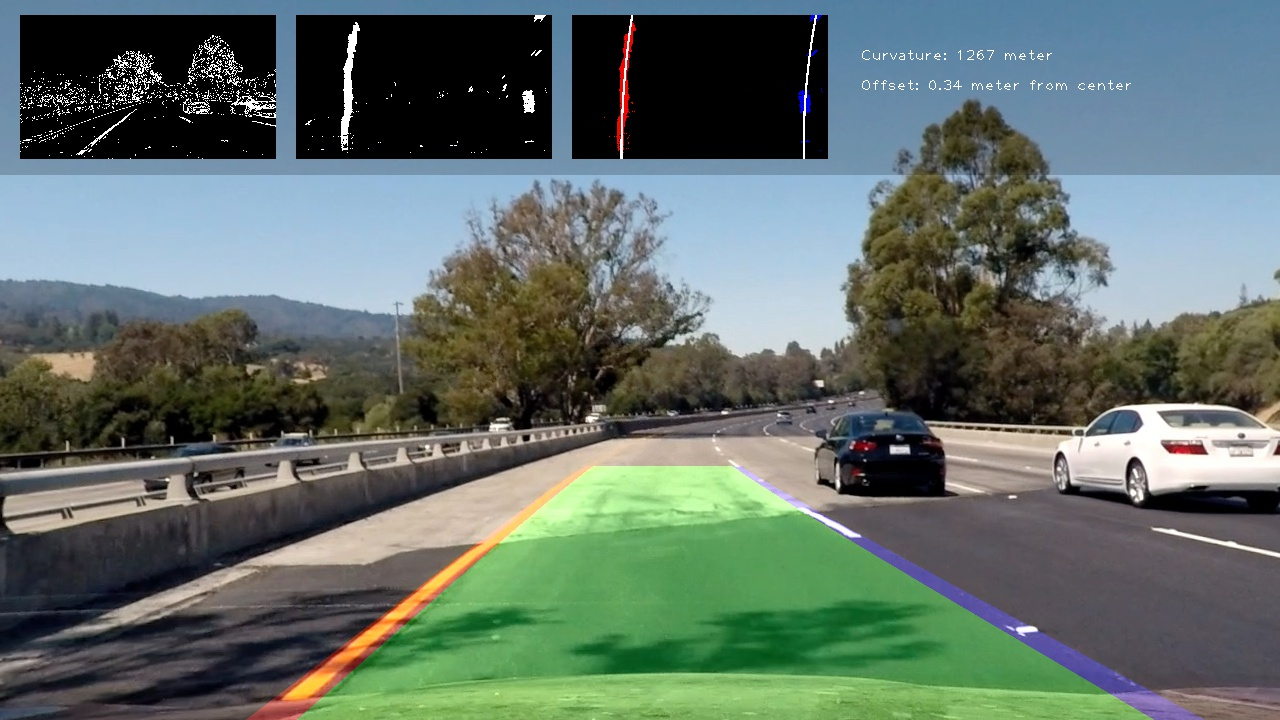
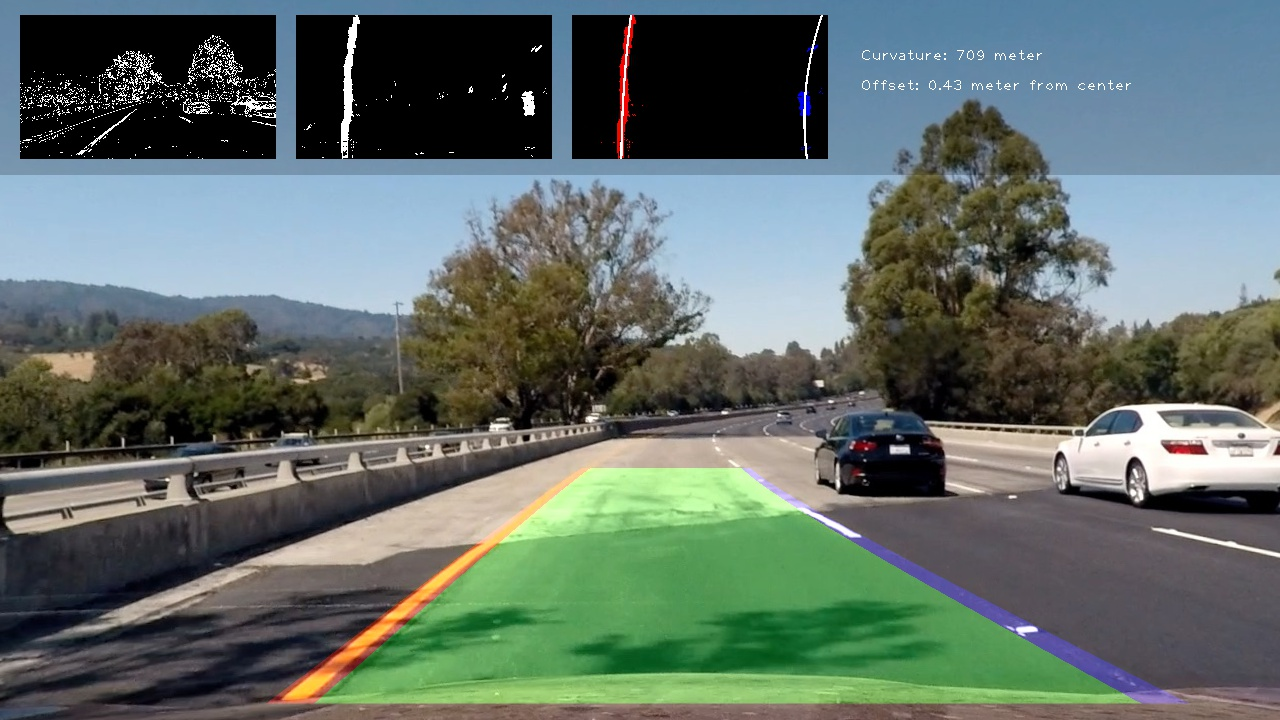
Fix curvature and offset calculations

diff --git a/project02 advanced lane lines/lane.py b/project02 advanced lane lines/lane.py
@@ -172,24 +172,24 @@ def fit_polynomial(binary_warped, debug=False):
 
     # Plots the left and right polynomials on the lane lines
     if debug:
-        plt.plot(left_fitx, ploty, color='red')
-        plt.plot(right_fitx, ploty, color='blue')
+        # plt.plot(left_fitx, ploty, color='red')
+        # plt.plot(right_fitx, ploty, color='blue')
         plt.imshow(out_img, cmap='gray')
         plt.show()
 
     return left_fit, right_fit, left_fitx, right_fitx, ploty, out_img
 
 
-# def put_points(image, pts, color=[0, 255, 0]):
-#     # pdb.set_trace()
-#     for (x, y) in pts:
-#         x = int(x)
-#         y = int(y)
-#         print(x, y, color)
-#         image[y, x, :] = color
-#
-#     pdb.set_trace()
-#     return image
+def put_points(image, pts, color=[0, 255, 0]):
+    # pdb.set_trace()
+    for (x, y) in pts:
+        x = int(x)
+        y = int(y)
+        print(x, y, color)
+        image[y, x, :] = color
+
+    pdb.set_trace()
+    return image
 
 
 def draw_lane(image, coeffs, color=(255, 0, 0), line_width=50):
@@ -259,12 +259,116 @@ def measure_curvature_real(leftx, rightx, ploty):
     return np.average([left_curverad, right_curverad])
 
 
+def measure_curvature_real2(image, birdeye_binary, Minv, leftx, rightx, ploty):
+    # warped from birdeye to the original image space
+    warped_left_points = np.zeros_like(birdeye_binary).astype(np.uint8)
+    warped_right_points = np.zeros_like(birdeye_binary).astype(np.uint8)
+
+    # plot the points in warped space
+    for i, x1 in enumerate(leftx):
+        x2 = rightx[i]
+        y = ploty[i]
+        warped_left_points[y, x1] = 1
+        warped_right_points[y, x2] = 1
+
+    left_points = cv2.warpPerspective(warped_left_points, Minv, (image.shape[1], image.shape[0]))
+    right_points = cv2.warpPerspective(warped_right_points, Minv, (image.shape[1], image.shape[0]))
+    # for
+
+    leftx = []
+    left_ploty = []
+    for i, row in enumerate(left_points):
+        for j, x in enumerate(row):
+            if x == 1:
+                leftx.append(j)
+                left_ploty.append(i)
+
+    rightx = []
+    right_ploty = []
+    for i, row in enumerate(right_points):
+        for j, x in enumerate(row):
+            if x == 1:
+                rightx.append(j)
+                right_ploty.append(i)
+
+    leftx = np.array(leftx)
+    left_ploty = np.array(left_ploty)
+    rightx = np.array(rightx)
+    right_ploty = np.array(right_ploty)
+
+
+    left_fit_cr = np.polyfit(left_ploty*ym_per_pix, leftx*xm_per_pix, 2)
+    right_fit_cr = np.polyfit(right_ploty*ym_per_pix, rightx*xm_per_pix, 2)
+
+    y_eval = np.max(ploty)
+
+    # Calculation of R_curve (radius of curvature)
+    left_curverad = ((1 + (2*left_fit_cr[0]*y_eval*ym_per_pix + left_fit_cr[1])**2)**1.5) / np.absolute(2*left_fit_cr[0])
+    right_curverad = ((1 + (2*right_fit_cr[0]*y_eval*ym_per_pix + right_fit_cr[1])**2)**1.5) / np.absolute(2*right_fit_cr[0])
+
+    # print(left_curverad)
+    # print(right_curverad)
+    out = np.average([left_curverad, right_curverad])
+
+    return out
+
 
 def compute_offset(birdeye, left_fitx, right_fitx, ploty):
     image_center = birdeye.shape[1] / 2
 
     left_bottom = np.mean(left_fitx[ploty > 0.95 * max(ploty)])
     right_bottom = np.mean(right_fitx[ploty > 0.95 * max(ploty)])
+    lane_width = right_bottom - left_bottom
+    lane_center = (left_bottom + lane_width / 2)
+
+    offset_pix = lane_center - image_center
+    offset_meter = xm_per_pix * offset_pix
+
+    return offset_meter
+
+
+def compute_offset2(image, birdeye_binary, Minv, leftx, rightx, ploty):
+    image_center = image.shape[1] / 2
+
+    # warped from birdeye to the original image space
+    warped_left_points = np.zeros_like(birdeye_binary).astype(np.uint8)
+    warped_right_points = np.zeros_like(birdeye_binary).astype(np.uint8)
+
+    # plot the points in warped space
+    for i, x1 in enumerate(leftx):
+        x2 = rightx[i]
+        y = ploty[i]
+        warped_left_points[y, x1] = 1
+        warped_right_points[y, x2] = 1
+
+    left_points = cv2.warpPerspective(warped_left_points, Minv, (image.shape[1], image.shape[0]))
+    right_points = cv2.warpPerspective(warped_right_points, Minv, (image.shape[1], image.shape[0]))
+    # for
+
+    leftx = []
+    left_ploty = []
+    for i, row in enumerate(left_points):
+        for j, x in enumerate(row):
+            if x == 1:
+                leftx.append(j)
+                left_ploty.append(i)
+
+    rightx = []
+    right_ploty = []
+    for i, row in enumerate(right_points):
+        for j, x in enumerate(row):
+            if x == 1:
+                rightx.append(j)
+                right_ploty.append(i)
+
+    leftx = np.array(leftx)
+    left_ploty = np.array(left_ploty)
+    rightx = np.array(rightx)
+    right_ploty = np.array(right_ploty)
+
+
+    left_bottom = np.mean(leftx[left_ploty > 0.95 * max(left_ploty)])
+    right_bottom = np.mean(rightx[right_ploty > 0.95 * max(right_ploty)])
     lane_width = right_bottom - left_bottom
     lane_center = (left_bottom + lane_width / 2)
 
@@ -288,31 +392,37 @@ if __name__ == '__main__':
     color_binary = compute_color_binary(calibrated_image, debug=False)
 
     # warp
-    warp_binary, M, Minv = warp_to_birdeye(color_binary, debug=False)
+    birdeye_binary, M, Minv = warp_to_birdeye(color_binary, debug=False)
 
 
-    left_fit, right_fit, left_fitx, right_fitx, ploty, birdeye_lane = fit_polynomial(warp_binary)
+    left_fit, right_fit, left_fitx, right_fitx, ploty, birdeye_lane = fit_polynomial(birdeye_binary)
 
 
-    result = add_lane(calibrated_image, warp_binary, left_fit, right_fit, left_fitx, right_fitx, ploty)
+    result = add_lane(calibrated_image, birdeye_binary, Minv, left_fit, right_fit, left_fitx, right_fitx, ploty)
 
 
     # Calculate the radius of curvature in pixels for both lane lines
     # left_curverad, right_curverad = measure_curvature_pixels(left_fit, right_fit, ploty)
     # left_curverad, right_curverad = measure_curvature_real(left_fit, right_fit, ploty)
-    curvature = measure_curvature_real(left_fitx, right_fitx, ploty)
+    measure_curvature_real2(calibrated_image, birdeye_binary, Minv,
+                            np.int_(left_fitx),
+                            np.int_(right_fitx),
+                            np.int_(ploty))
 
-    print(curvature)
     # Should see values of 1625.06 and 1976.30 here, if using
     # the default `generate_data` function with given seed number
 
-    compute_offset(warp_binary, left_fitx, right_fitx, ploty)
+    compute_offset2(calibrated_image, birdeye_binary, Minv,
+                    np.int_(left_fitx),
+                    np.int_(right_fitx),
+                    np.int_(ploty))
 
 
-    # show images
-    color_binary_image = binary_to_image(color_binary)
-    warp_image = binary_to_image(warp_binary)
-    frame = add_info(result, color_binary_image, warp_image, birdeye_lane)
-    show_image(frame)
+
+    # # show images
+    # color_binary_image = binary_to_image(color_binary)
+    # warp_image = binary_to_image(warp_binary)
+    # frame = add_info(result, color_binary_image, warp_image, birdeye_lane)
+    # show_image(frame)
 
 

diff --git a/project02 advanced lane lines/main.py b/project02 advanced lane lines/main.py
@@ -25,7 +25,8 @@ import logging
 
 from camera import calibrate_camera, undistort, warp_to_birdeye
 from color import compute_color_binary
-from lane import measure_curvature_real, add_lane, fit_polynomial, compute_offset
+from lane import measure_curvature_real, add_lane, fit_polynomial, compute_offset, measure_curvature_real2, \
+    compute_offset2
 from utils import show_image, add_info, binary_to_image
 
 logging.basicConfig(format='%(asctime)s %(levelname)-8s [%(filename)s:%(lineno)d] %(message)s',
@@ -59,8 +60,15 @@ def process_image(image, debug=False):
     # lane
     left_fit, right_fit, left_fitx, right_fitx, ploty, birdeye_lane = fit_polynomial(birdeye_binary, debug=False)
 
-    curvature = measure_curvature_real(left_fitx, right_fitx, ploty)
-    offset_meter = compute_offset(birdeye_binary, left_fitx, right_fitx, ploty)
+    # curvature = measure_curvature_real(left_fitx, right_fitx, ploty)
+    curvature = measure_curvature_real2(calibrated_image, birdeye_binary, Minv,
+                                        np.int_(left_fitx),
+                                        np.int_(right_fitx),
+                                        np.int_(ploty))
+    offset_meter = compute_offset2(calibrated_image, birdeye_binary, Minv,
+                                   np.int_(left_fitx),
+                                   np.int_(right_fitx),
+                                   np.int_(ploty))
     text_data = {
         "Curvature": f"{curvature:.0f} meter",
         "Offset": f"{offset_meter:.2f} meter from center",
@@ -136,13 +144,13 @@ def make_subclip():
 
 def main():
     # Processing images
-    # for filename in os.listdir("test_images/"):
-    #     process_image_file(filename)
+    for filename in os.listdir("test_images/"):
+        process_image_file(filename)
 
     # process_image_file("straight_lines1.jpg", debug=True)
     # process_image_file("test1.jpg")
 
-    process_video_file_simple("small.mp4")
+    # process_video_file_simple("small.mp4")
 
 
 

diff --git a/project02 advanced lane lines/camera.py b/project02 advanced lane lines/camera.py
@@ -115,24 +115,24 @@ def undistort(image, mtx, dist, debug=False):
 def warp_to_birdeye(image, debug=False):
     h, w = image.shape[0], image.shape[1]
 
-    # calibrated for image1
-    src = np.array([
-        [310, 650],
-        [1001, 650],
-        [565, 470],
-        [719, 470],
-    ], np.float32)
-
-    # # calibrated for image2
+    # # calibrated for image1
     # src = np.array([
-    #     [313, 650],
+    #     [310, 650],
     #     [1001, 650],
     #     [565, 470],
-    #     [722, 470],
+    #     [719, 470],
     # ], np.float32)
 
+    # calibrated for image2
+    src = np.array([
+        [313, 650],
+        [1001, 650],
+        [565, 470],
+        [722, 470],
+    ], np.float32)
+
     width = w * 0.15
-    height = h * 0.1
+    height = h * 0.05
     dst = np.array([
         [0 + width, h - height],
         [w - width, h - height],
